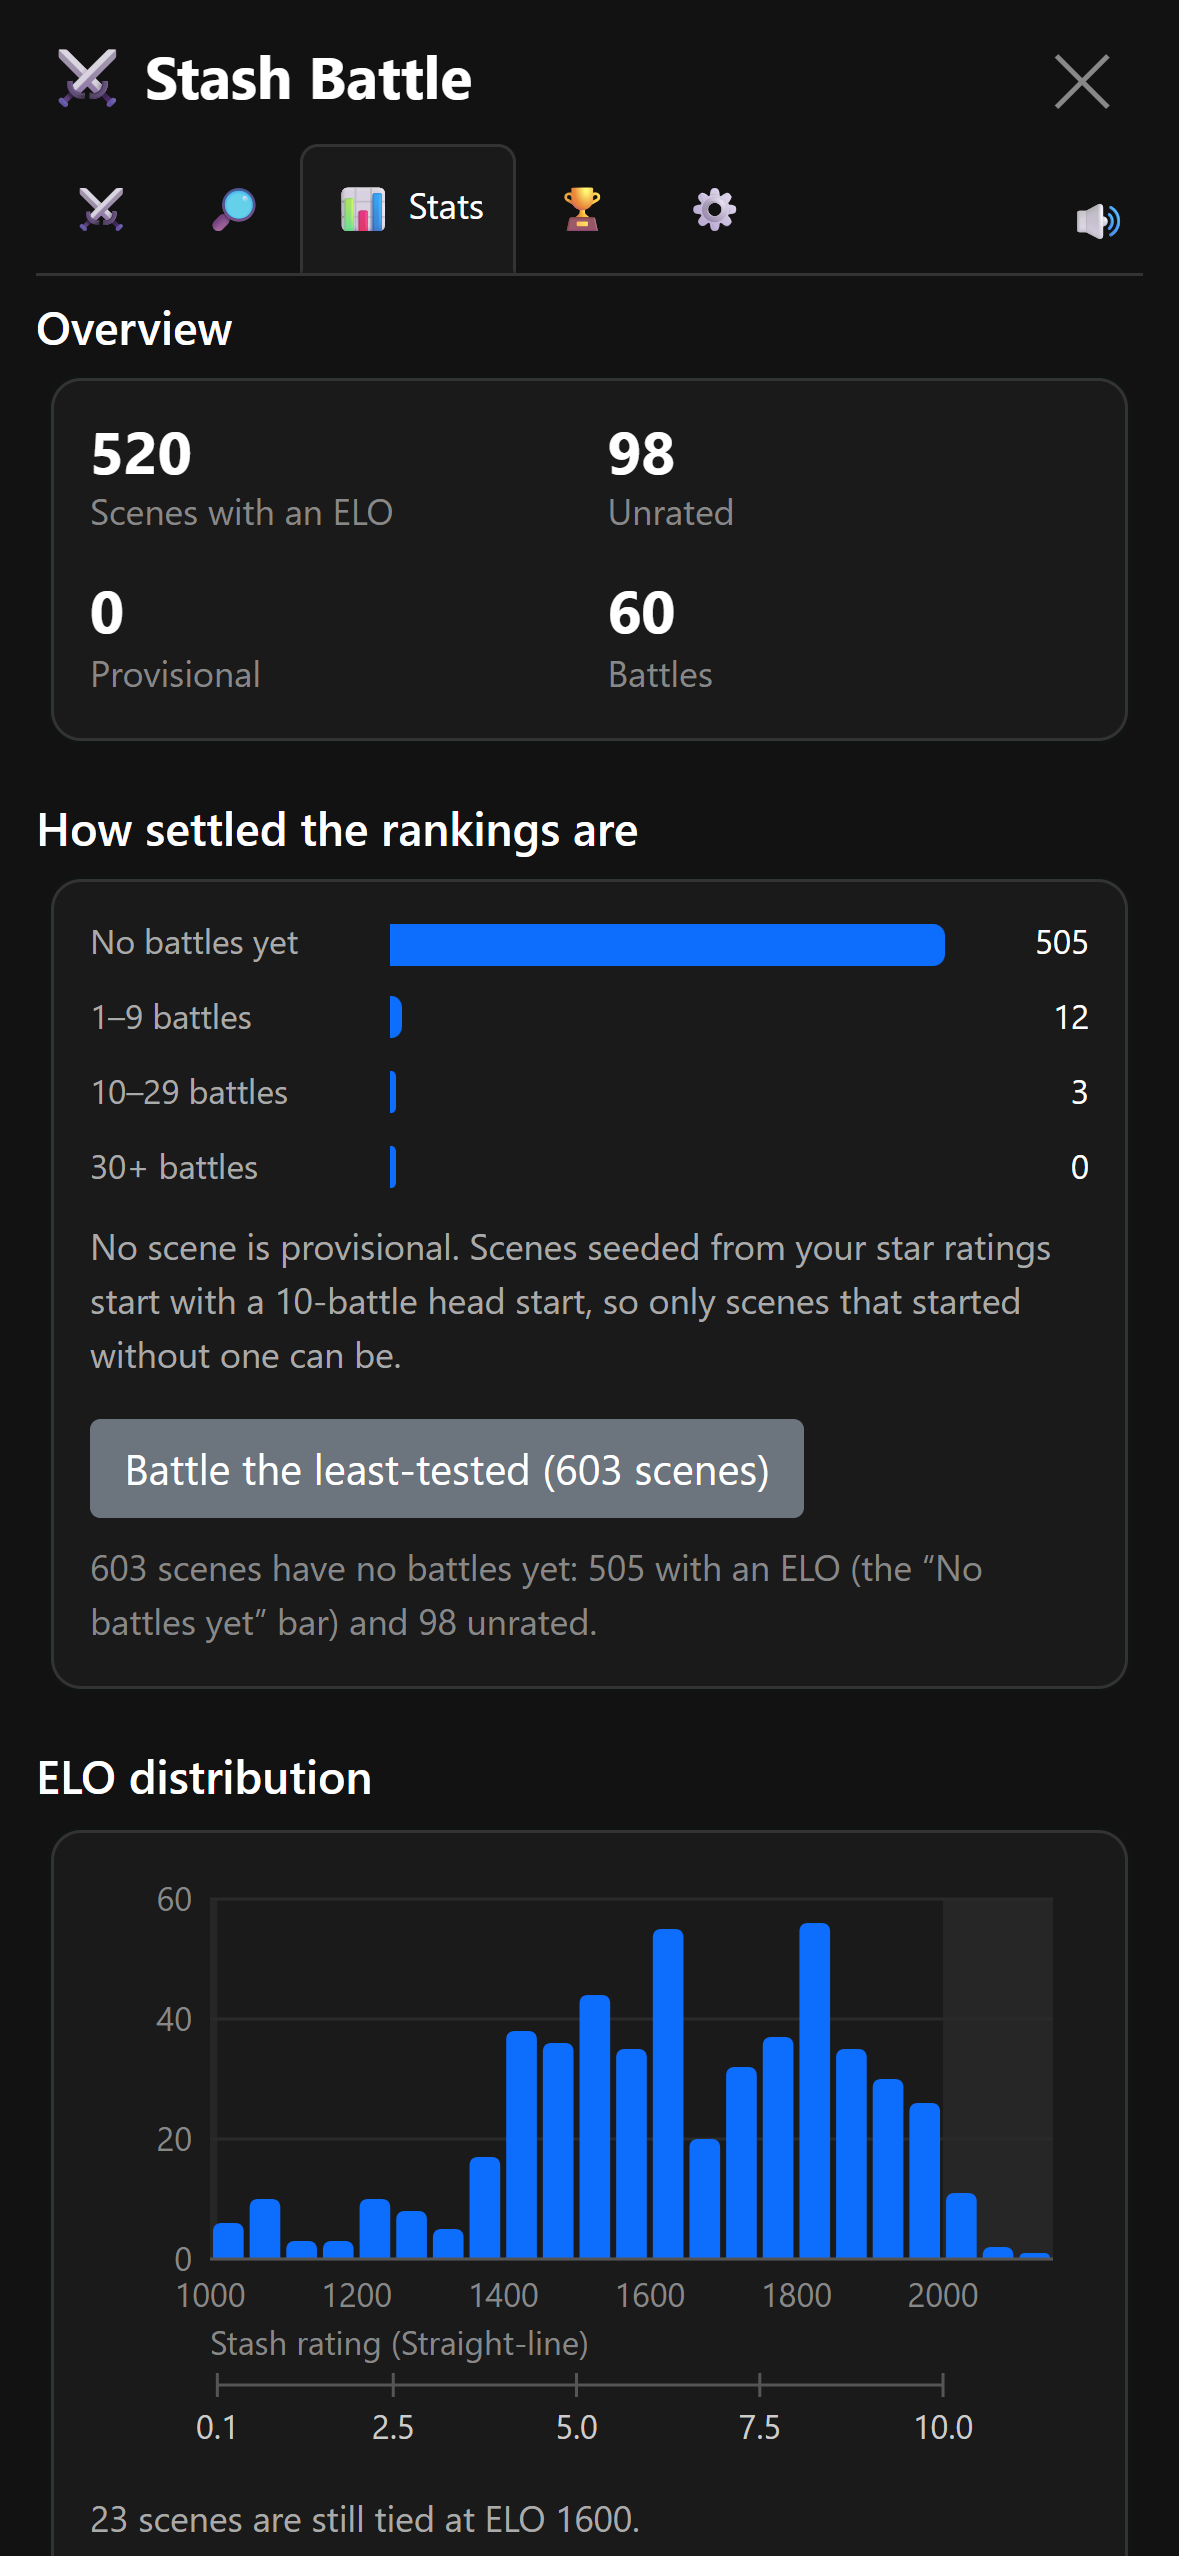
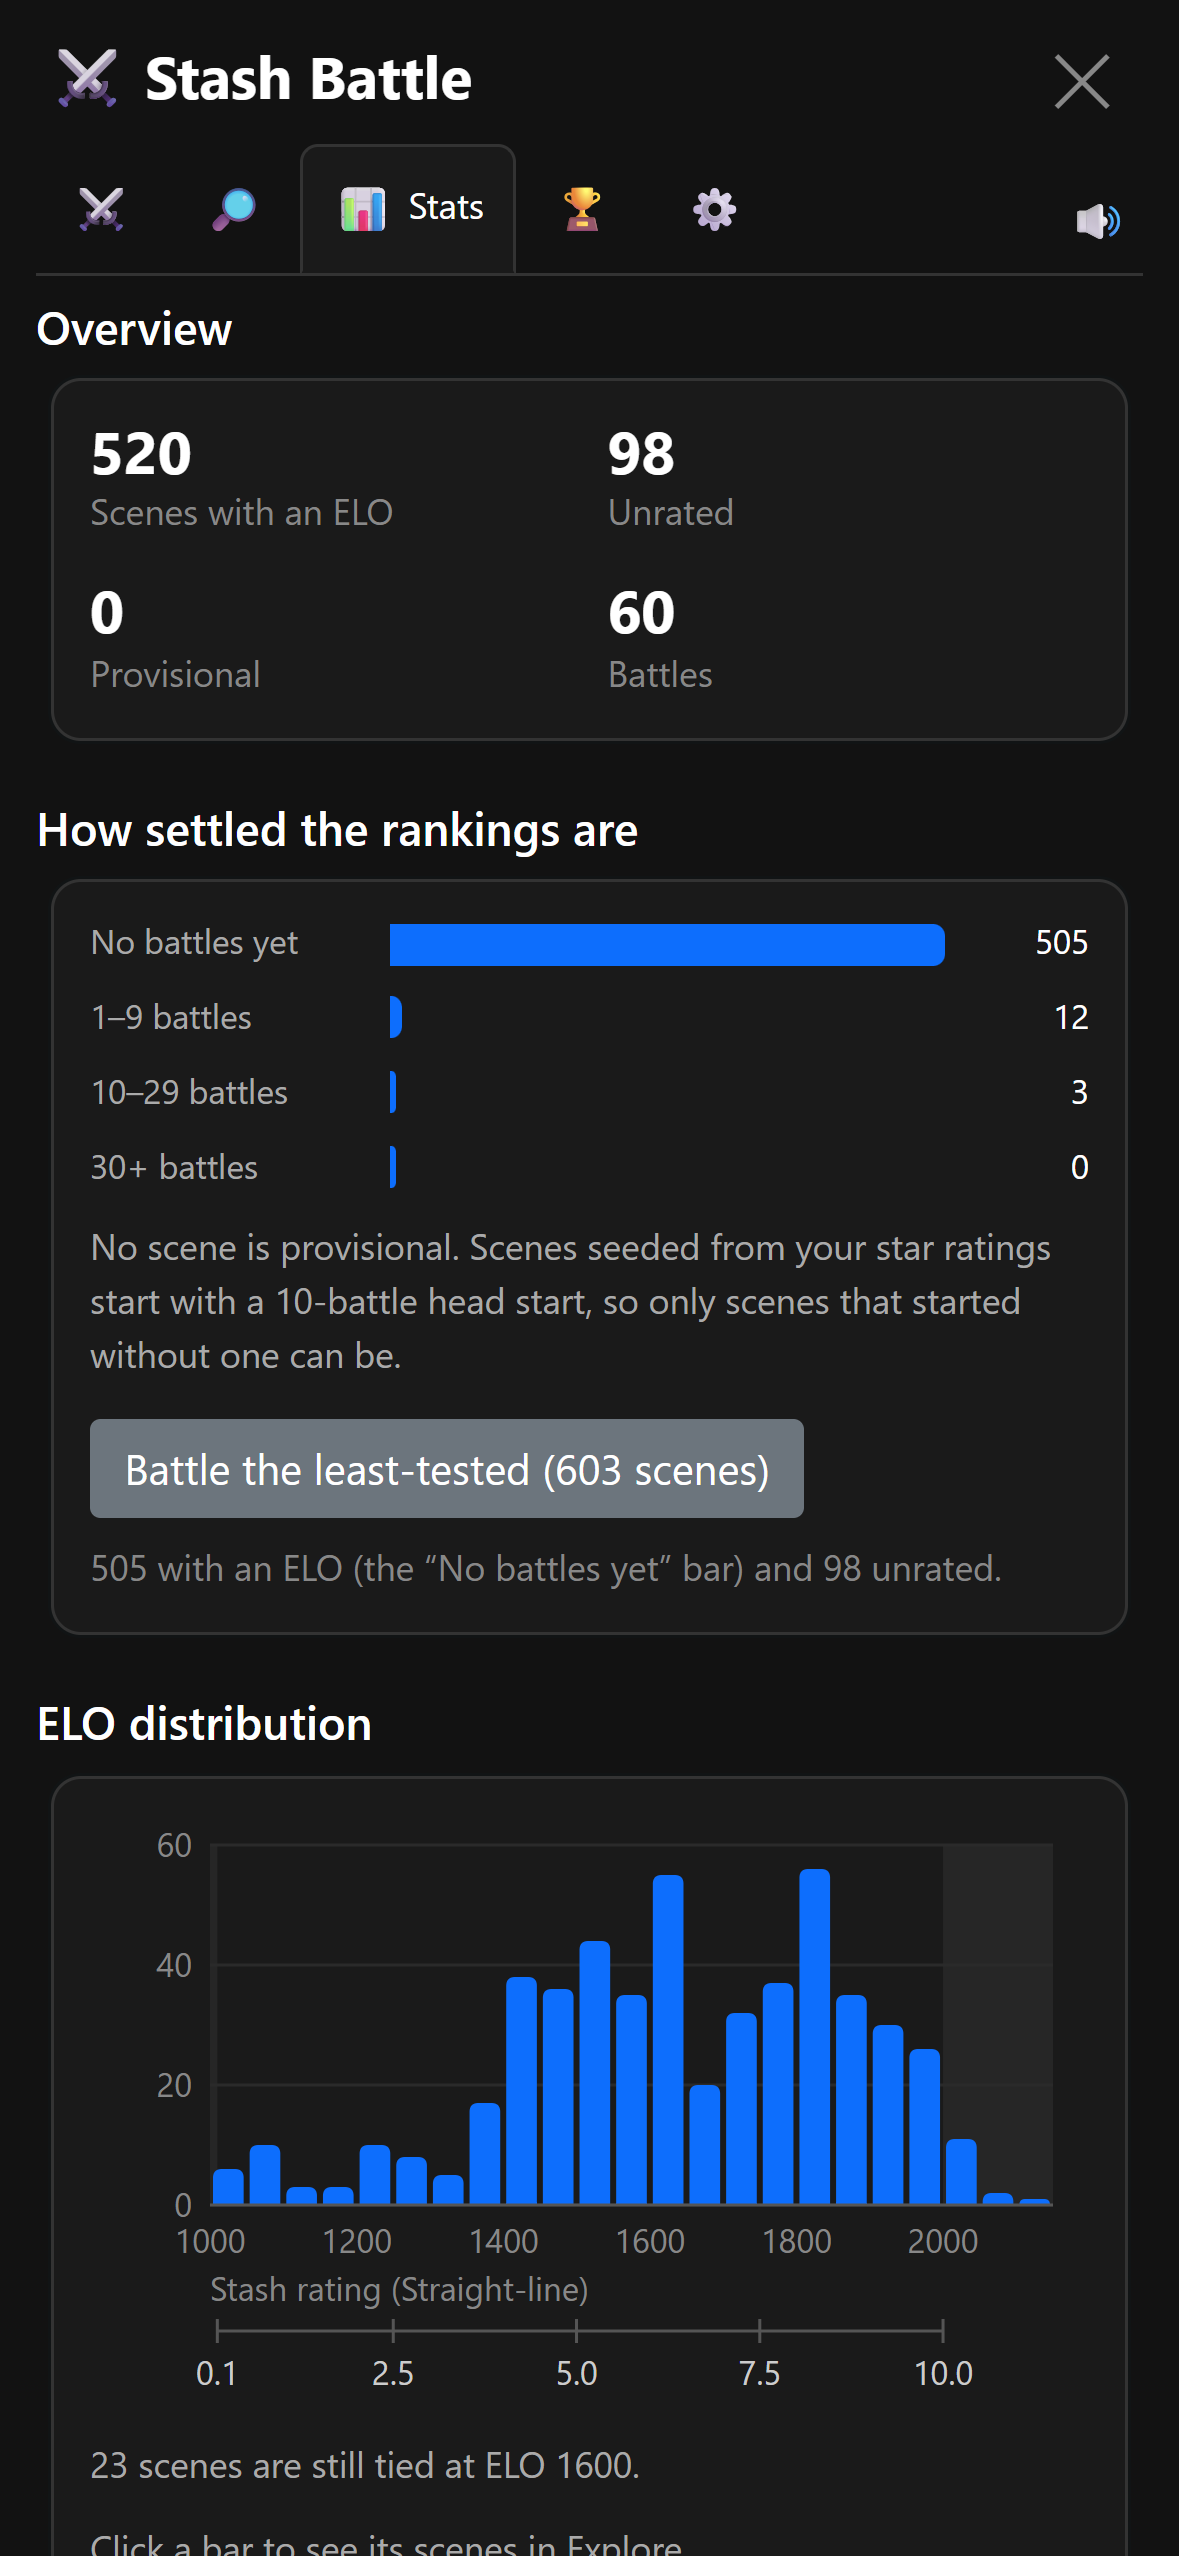
Stats: the least-tested note doesn't repeat the button's count.

diff --git a/plugins/stash-battle/stash-battle.js b/plugins/stash-battle/stash-battle.js
@@ -3255,7 +3255,7 @@
     const pool = leastTestedPool(leastTestedScenes);
     if (!pool) return "";
     const rated = pool.count - pool.unrated;
-    const who = pool.battles === 0 ? `${plural(pool.count, "scene")} have no battles yet: ${rated} with an ELO (the “No battles yet” bar) and ${pool.unrated} unrated.` : `The fewest battles any scene has is ${pool.battles}, and ${plural(pool.count, "scene")} have that many.`;
+    const who = pool.battles === 0 ? `${rated} with an ELO (the “No battles yet” bar)${pool.unrated > 0 ? ` and ${pool.unrated} unrated` : ""}.` : `The fewest battles any scene has is ${pool.battles}, and ${plural(pool.count, "scene")} have that many.`;
     return leastTestedFiltered ? `${who} From your Scenes page filter.` : who;
   }
   function settledHtml() {

diff --git a/src/ui/statsTab.ts b/src/ui/statsTab.ts
@@ -269,7 +269,7 @@ function leastTestedText(): string {
   const rated = pool.count - pool.unrated;
   const who =
     pool.battles === 0
-      ? `${plural(pool.count, "scene")} have no battles yet: ${rated} with an ELO (the “No battles yet” bar) and ${pool.unrated} unrated.`
+      ? `${rated} with an ELO (the “No battles yet” bar)${pool.unrated > 0 ? ` and ${pool.unrated} unrated` : ""}.`
       : `The fewest battles any scene has is ${pool.battles}, and ${plural(pool.count, "scene")} have that many.`;
   return leastTestedFiltered ? `${who} From your Scenes page filter.` : who;
 }

diff --git a/DOCUMENTATION.md b/DOCUMENTATION.md
@@ -517,7 +517,7 @@ The status line offers **"⚔ Battle these N scenes"** for any filter that ha
 Hand-drawn SVG (no chart library), sized to the panel and redrawn on resize. Titles show only on hover or tap.
 
 1. **Overview**: scenes with an ELO, unrated, provisional, total battles (sum of `stash_battle_battles`).
-2. **How settled**: bars for 0, 1-9, 10-29 and 30+ real battles (the K tiers, `settledBuckets`; the seeded head start doesn't count). **"Battle the least-tested (N scenes)"** sets `state.leastTested`: Swiss takes the scene with the fewest real battles on the left (`leastTested`: random among equals, never the one just shown) instead of the shuffle, until Stop (the pool line above the cards reads "Battling your least-tested scenes first, from your whole library · N scenes · Stop", in place of the usual line, as a battled Explore filter's does), a mode change, or battling a scene or an Explore filter; it survives closing Stash Battle. The pool is the Scenes page filter's scenes, or the whole library (`leastTestedSource`), unrated scenes included; the description spells out the count ("557 scenes have no battles yet: 461 with an ELO and 96 unrated"), from `leastTestedPool`.
+2. **How settled**: bars for 0, 1-9, 10-29 and 30+ real battles (the K tiers, `settledBuckets`; the seeded head start doesn't count). **"Battle the least-tested (N scenes)"** sets `state.leastTested`: Swiss takes the scene with the fewest real battles on the left (`leastTested`: random among equals, never the one just shown) instead of the shuffle, until Stop (the pool line above the cards reads "Battling your least-tested scenes first, from your whole library · N scenes · Stop", in place of the usual line, as a battled Explore filter's does), a mode change, or battling a scene or an Explore filter; it survives closing Stash Battle. The pool is the Scenes page filter's scenes, or the whole library (`leastTestedSource`), unrated scenes included; the description splits the button's count ("461 with an ELO (the “No battles yet” bar) and 96 unrated"), from `leastTestedPool`.
 3. **ELO distribution**: a histogram in 25-ELO bars (50-ELO under 500px wide), with the Stash rating scale for the current update mode under it (Straight-line ticks with the clamped zones shaded, or Percentile ticks) and a note for a big tie ("142 scenes still tied at 1500", `largestTie`). Clicking a bar opens Explore at its range; on touch a tap pins "ELO 1600–1649: 55 scenes" with a "🔎 See them in Explore" button.
 4. **Hidden gems / overplayed**: ELO up, play count across (square-root scale), split at the median ELO and play count (`gemsSplit`, `gemsQuadrant`): top left "Hidden gems", bottom right "Overplayed". Hovering a dot shows its small card beside the pointer, kept inside the chart; clicking opens the scene page. On touch a tap pins the card (link + ⚔); the pinned card ignores the tap's own `pointerleave`.
 
